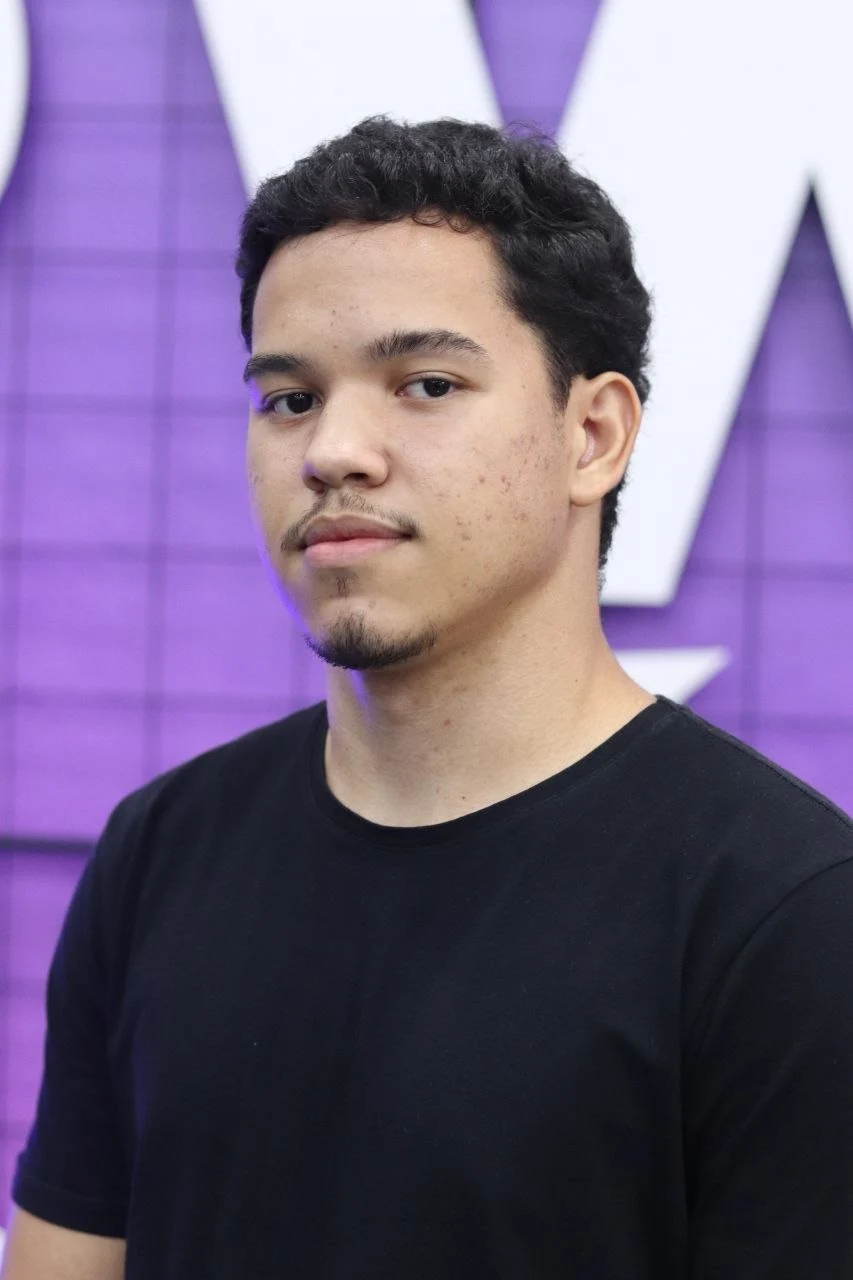
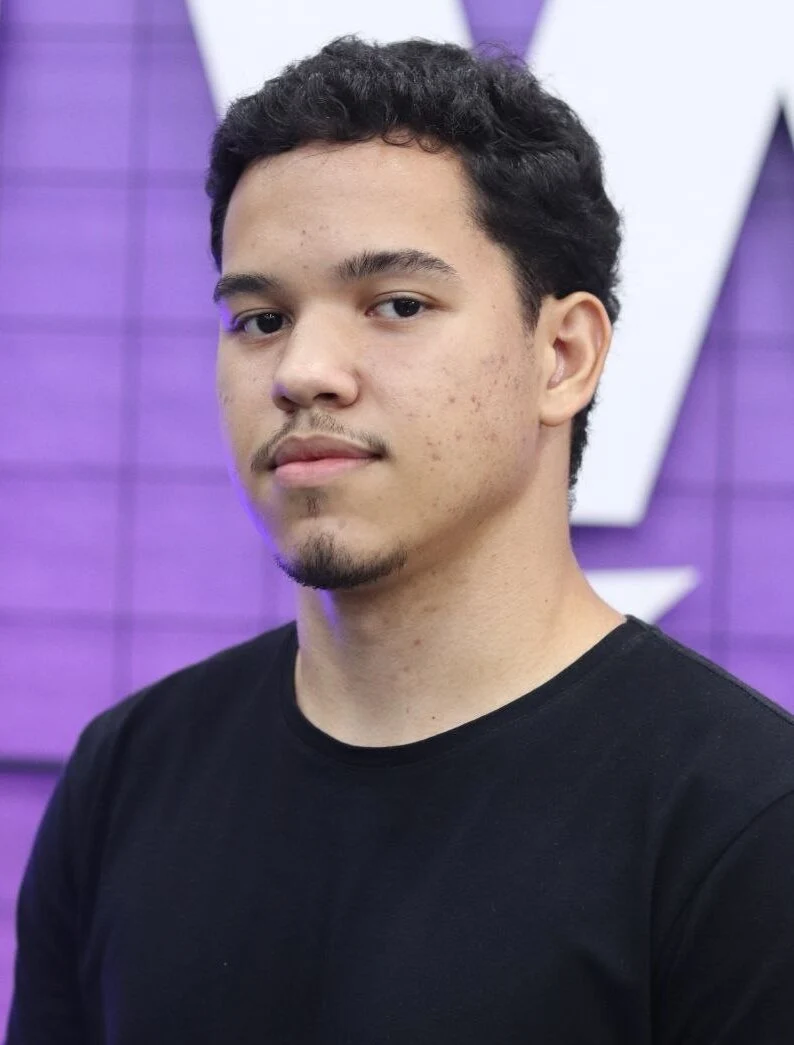
ajusta foto roberto

diff --git a/style.css b/style.css
@@ -2075,7 +2075,7 @@ section {
 
     .team-image-wrapper {
         
-        height: auto;
+        height: 520px;
     }
 
     .cta-section {
